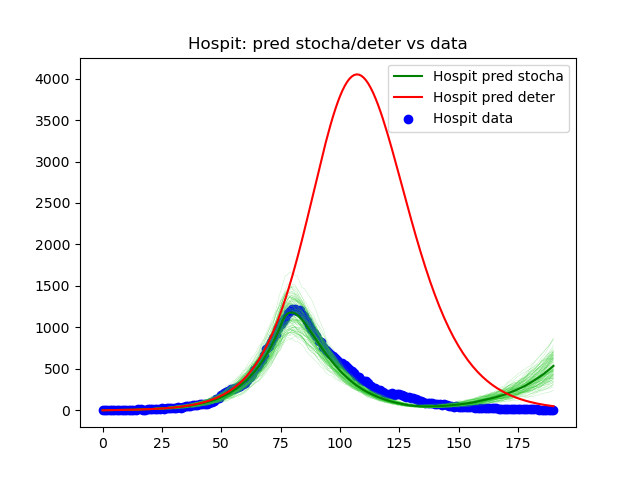
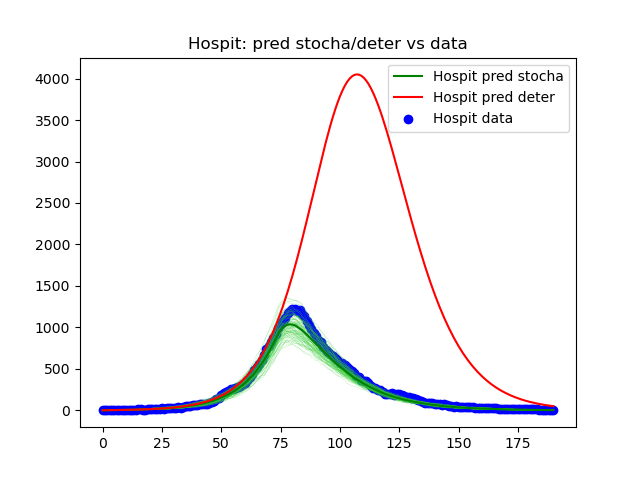
upd graph and mesures

Changed region(s): [[0.3125, 0.5938, 0.875, 0.875]]

diff --git a/Reboot_Q2/SEIR.py b/Reboot_Q2/SEIR.py
@@ -903,9 +903,9 @@ class SEIR():
             start, end = scenario['wearing_mask']
             # Modify time line contact matrix
             # At school
-            self.contacts_time_line[start:end, :, 1] -= self.contacts_time_line[
-                                                        start:end, :,
-                                                        1] * 0.9 * 0.2
+            #self.contacts_time_line[start:end, :, 1] -= self.contacts_time_line[
+            #                                            start:end, :,
+            #                                            1] * 0.9 * 0.2
             # At work
             self.contacts_time_line[start:end, :, 2] -= self.contacts_time_line[
                                                         start:end, :,

diff --git a/Reboot_Q2/main.py b/Reboot_Q2/main.py
@@ -158,8 +158,8 @@ if __name__ == "__main__":
     print('Phase 3: ')
     scenario_1 = {
         'duration': 191,
-        'social_dist': [75, 128, 6],
-        'wearing_mask': [75, 128]
+        'social_dist': [73, 190, 6],
+        'wearing_mask': [73, 190]
     }
     # Put the scenario in the model:
     model.set_scenario(scenario_1)
